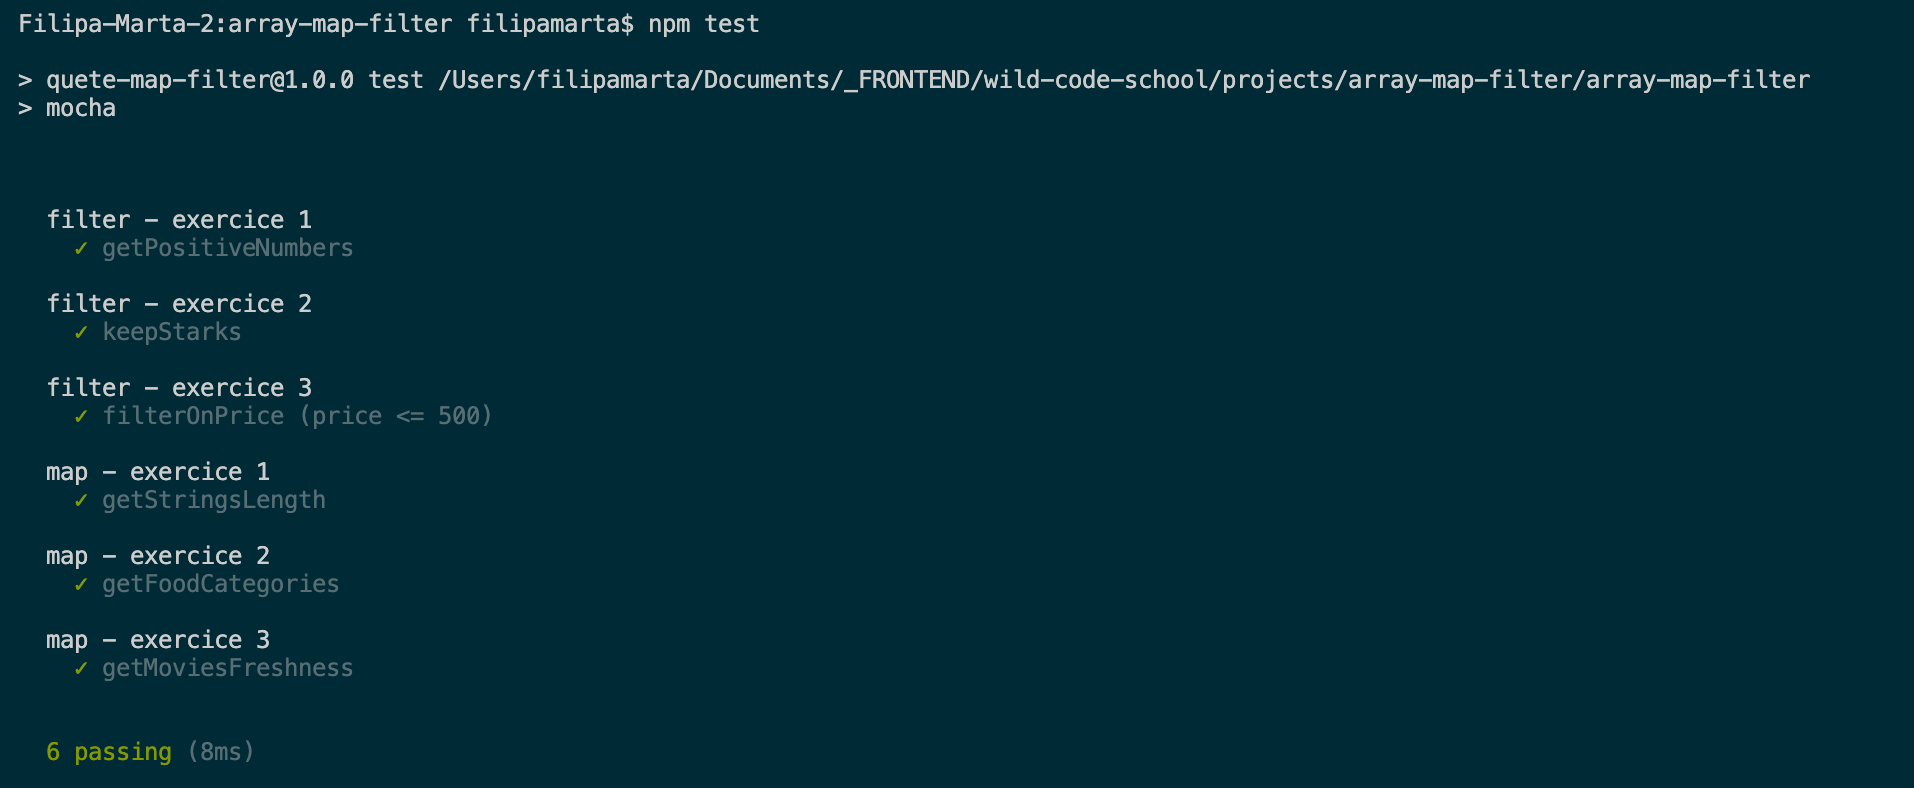
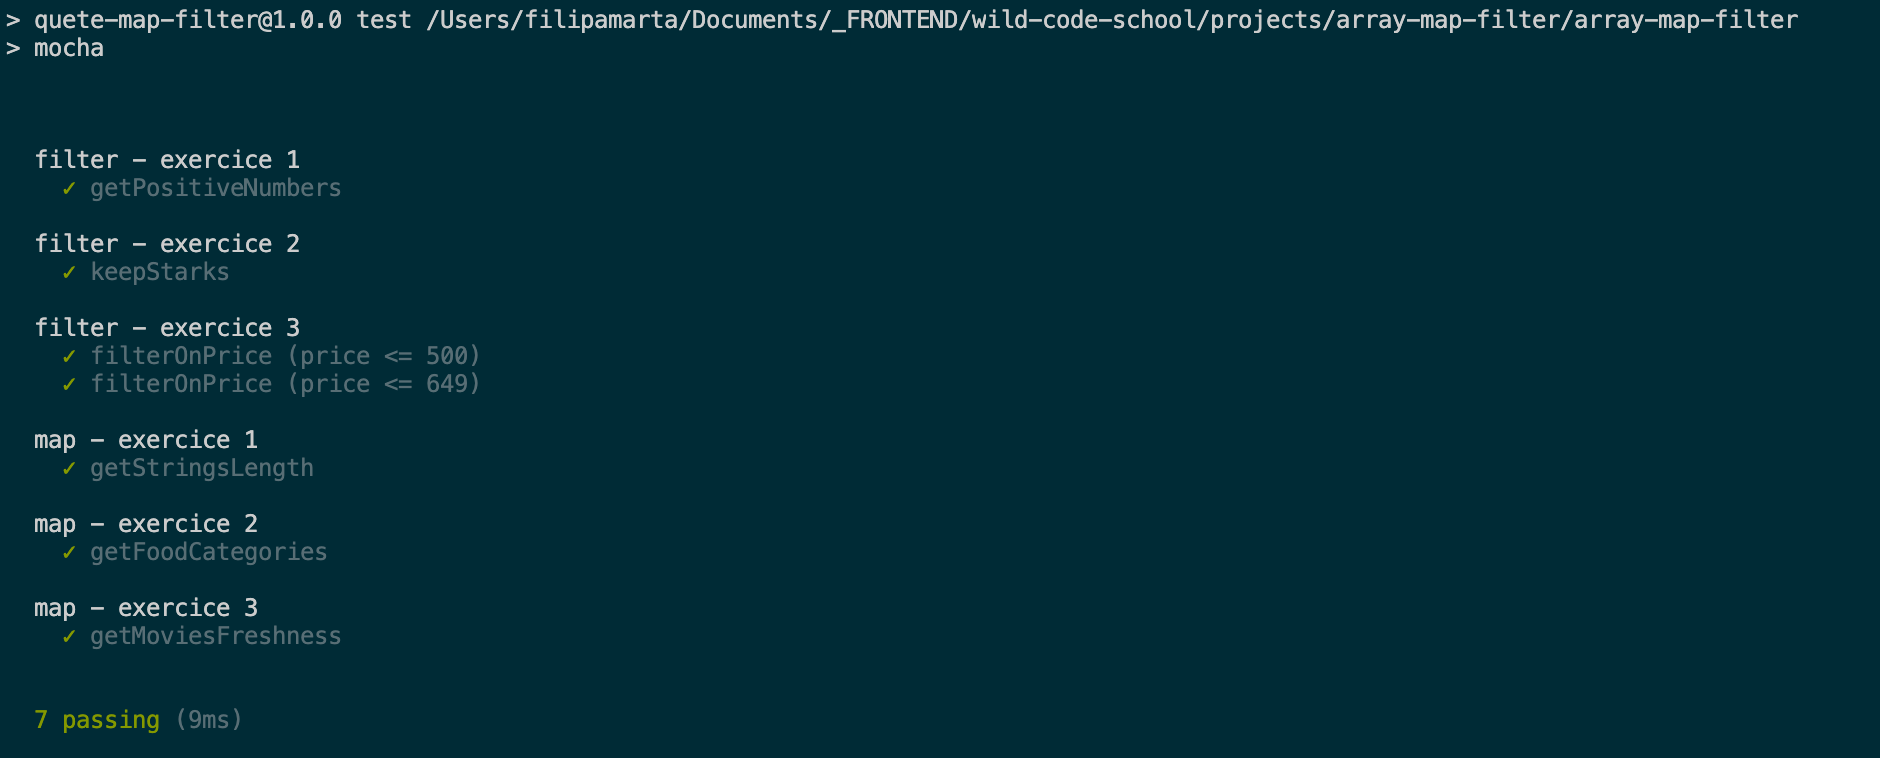
add screenshot -  passing tests

diff --git a/test/filter3.test.js b/test/filter3.test.js
@@ -39,6 +39,23 @@ describe('filter - exercice 3', () => {
       }
     ]);
   });
+  it('filterOnPrice (price <= 649)', () => {
+    expect(filterOnPrice(products, 649))
+    .to.deep.equal([
+      {
+        name: 'Xiaomi Mi A2',
+        price: 209
+      },
+      {
+        name: 'Huawei P20',
+        price: 480
+      },
+      {
+        name: 'Huawei P20 Pro',
+        price: 649
+      }
+    ]);
+  });
 
 });
 

diff --git a/filter/ex3.js b/filter/ex3.js
@@ -35,7 +35,7 @@ Expected OUTPUT for these sample arguments:
 function filterOnPrice(products, maxPrice) {
 
   const result = products.filter( (product, i) => {
-    return product.price < maxPrice;
+    return product.price <= maxPrice;
   });
 
   //console.log(result);
